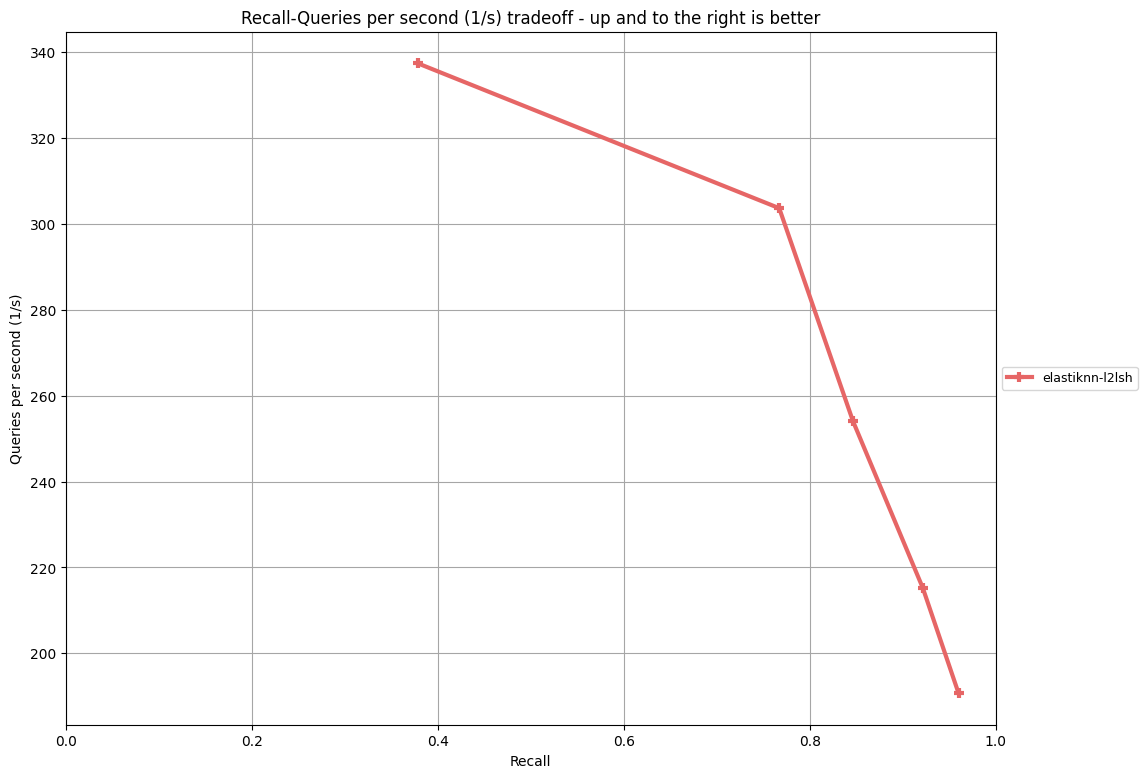
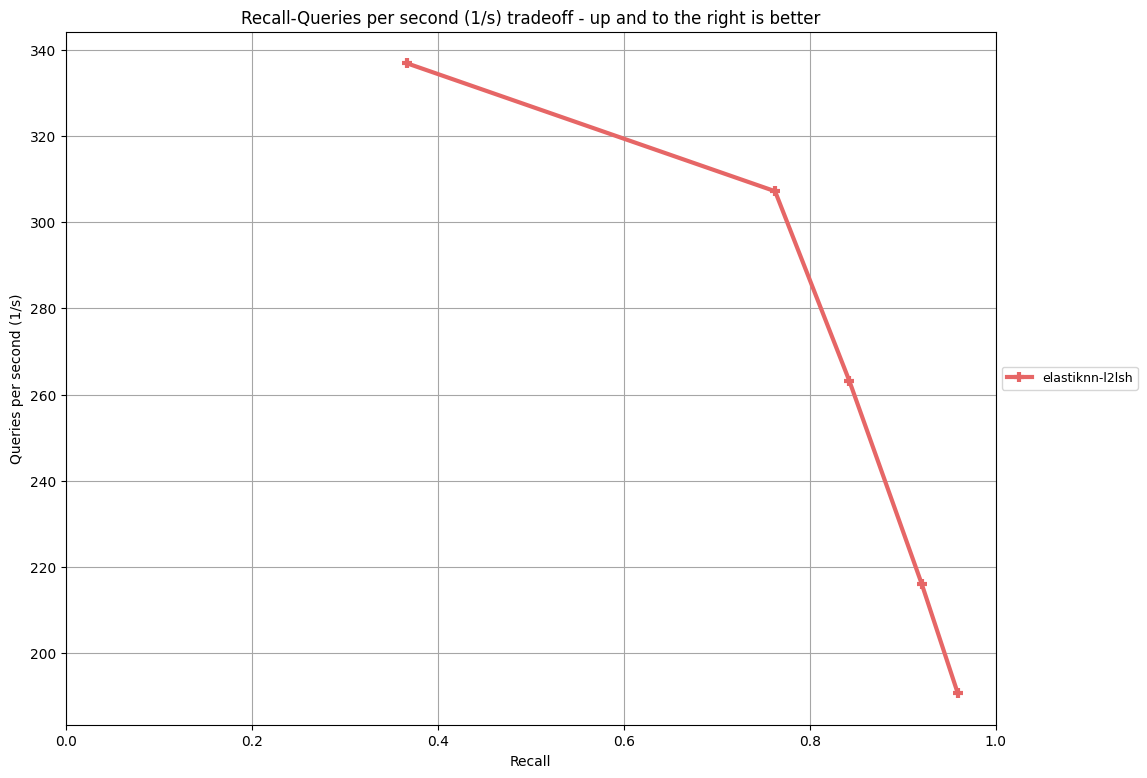
Benchmark

diff --git a/docs/pages/performance/fashion-mnist/results.md b/docs/pages/performance/fashion-mnist/results.md
@@ -1,10 +1,10 @@
 |Model|Parameters|Recall|Queries per Second|
 |---|---|---|---|
-|eknn-l2lsh|L=100 k=4 w=1024 candidates=500 probes=0|0.378|337.457|
-|eknn-l2lsh|L=100 k=4 w=1024 candidates=1000 probes=0|0.446|281.828|
-|eknn-l2lsh|L=100 k=4 w=1024 candidates=500 probes=3|0.634|272.814|
-|eknn-l2lsh|L=100 k=4 w=1024 candidates=1000 probes=3|0.716|232.698|
-|eknn-l2lsh|L=100 k=4 w=2048 candidates=500 probes=0|0.767|303.686|
-|eknn-l2lsh|L=100 k=4 w=2048 candidates=1000 probes=0|0.846|254.121|
-|eknn-l2lsh|L=100 k=4 w=2048 candidates=500 probes=3|0.922|215.233|
-|eknn-l2lsh|L=100 k=4 w=2048 candidates=1000 probes=3|0.960|190.689|
+|eknn-l2lsh|L=100 k=4 w=1024 candidates=500 probes=0|0.367|336.832|
+|eknn-l2lsh|L=100 k=4 w=1024 candidates=1000 probes=0|0.412|280.243|
+|eknn-l2lsh|L=100 k=4 w=1024 candidates=500 probes=3|0.626|274.929|
+|eknn-l2lsh|L=100 k=4 w=1024 candidates=1000 probes=3|0.710|236.222|
+|eknn-l2lsh|L=100 k=4 w=2048 candidates=500 probes=0|0.763|307.143|
+|eknn-l2lsh|L=100 k=4 w=2048 candidates=1000 probes=0|0.843|263.197|
+|eknn-l2lsh|L=100 k=4 w=2048 candidates=500 probes=3|0.920|216.136|
+|eknn-l2lsh|L=100 k=4 w=2048 candidates=1000 probes=3|0.959|190.726|
